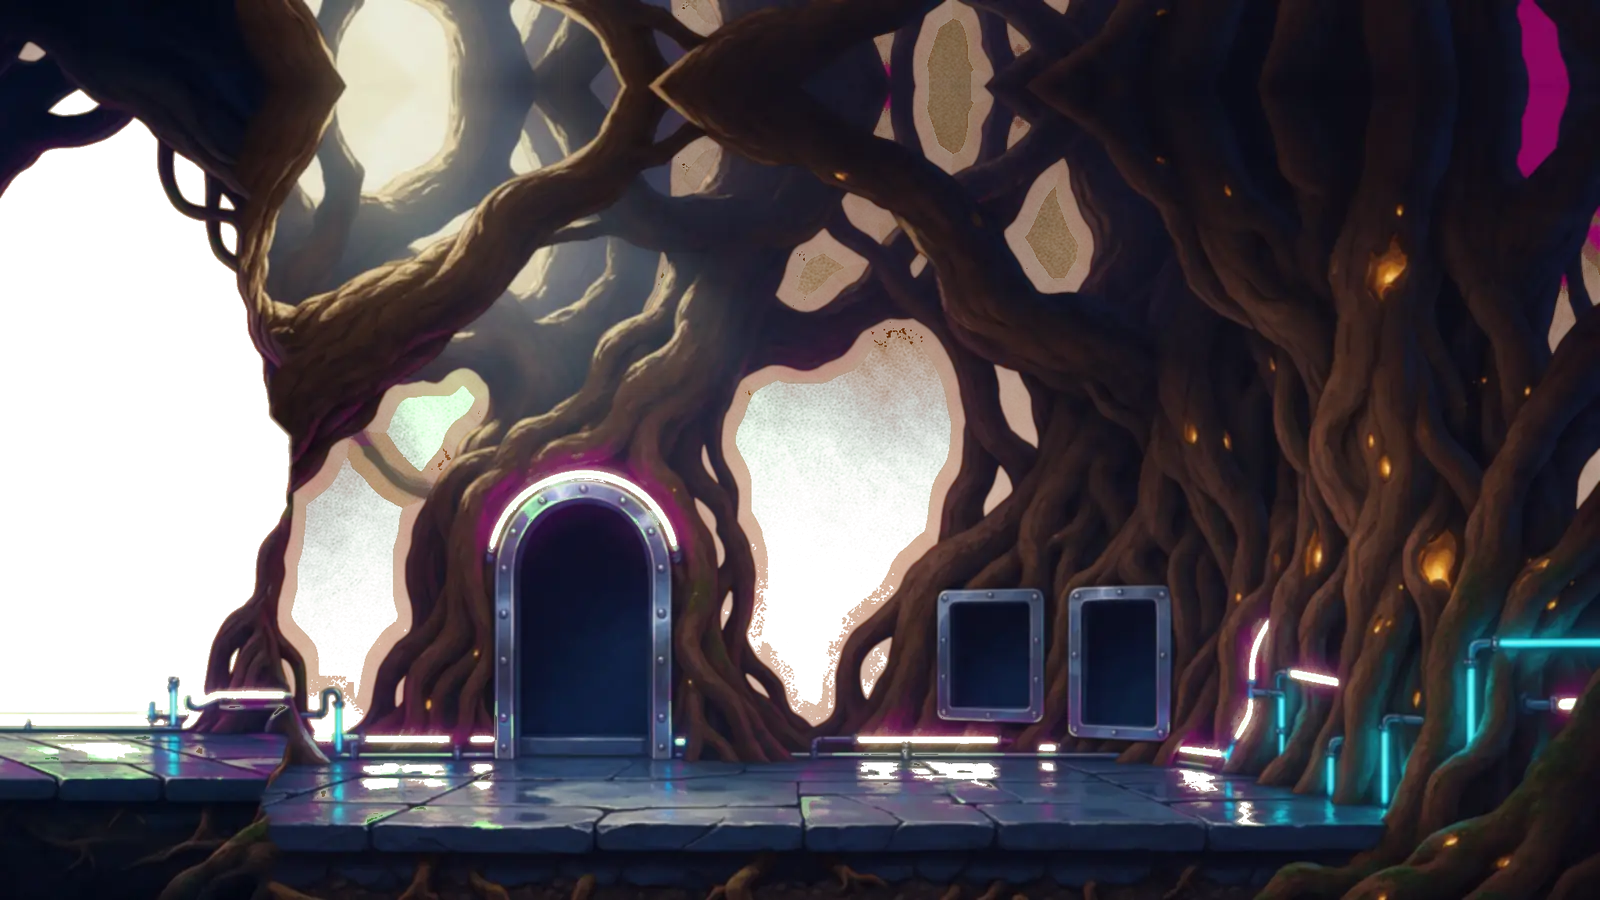
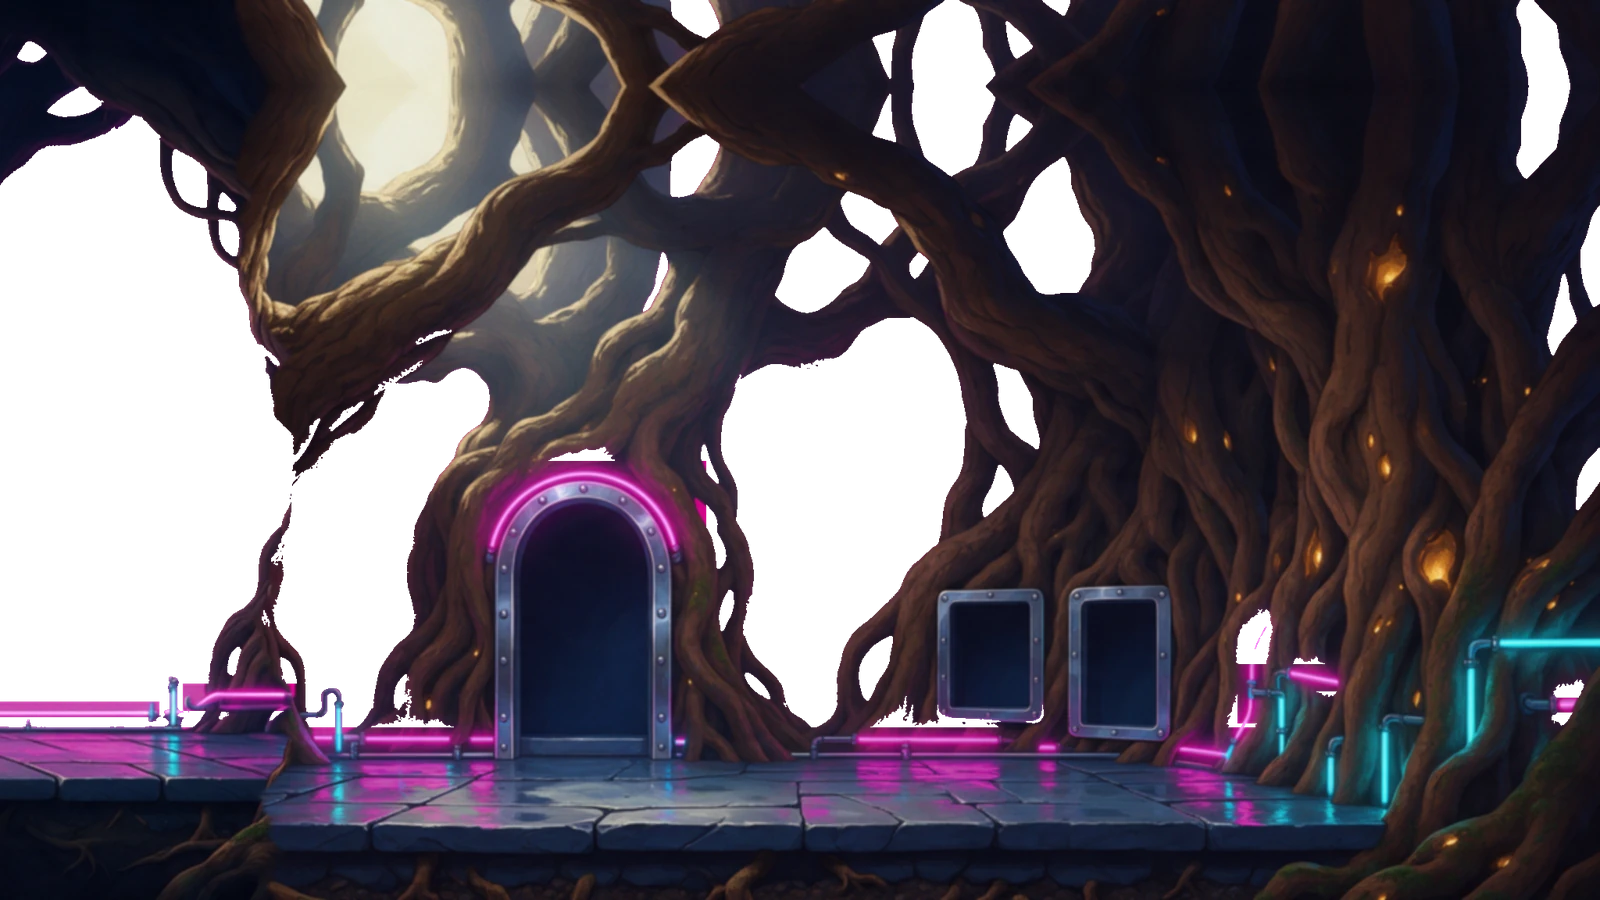
Level 0: clean the art (OP-163 follow-up)
Re-finished under the owner's standing art approval, with no new generation:

- The two screens' join is rebuilt from the other seam candidate of the same
  round, which keeps the scene continuous; the platforms are split again from
  that row so the walkway matches it.
- Each screen's overlay had a trunk the frame cut, which floated mid-view with
  a hard edge as it scrolled; both are cleared along their own outline
  (--clear-poly), and the overlays and middle-distance tiles ramp their alpha at
  the join (new overlay --edge-fade LEFT,RIGHT, recorded in the post record's
  tools; TODO-DOCS note for docs/ART-PIPELINE.md).
- The magenta specks on the platforms are keyed out with a wider key band.
- The cave's back scenery is keyed from derived raws whose painted backdrop
  (shaded like a glowing void) is set to the key colour above the floor, the
  neon painted in the same hue kept, so the green despilled remnants are gone.

Provenance and the sprite table are updated by the publisher.

Claude-Session: https://claude.ai/code/session_01BnX9BSkNEmKYCsZWbnRycG

diff --git a/tools/art/postprocess.py b/tools/art/postprocess.py
@@ -642,6 +642,36 @@ def clear_polygon(img: Image.Image, poly: str, scale: float = 1) -> tuple[Image.
     return rgba, int((out < a).sum())
 
 
+def fade_edges(img: Image.Image, spec: str, scale: float = 1) -> tuple[Image.Image, int]:
+    """``img`` (RGBA) with its alpha ramped (smoothstep) from clear at a side edge to full over ``spec``'s
+    LEFT,RIGHT pixels of the 1x final (scaled for a larger one); and how many pixels lost alpha. For a
+    middle-distance tile whose paint reaches the side edge the room fades it over (OP-163): the room's
+    linear fade leaves a cut edge faintly visible for most of its width, a ramp in the layer itself does not.
+
+    TODO-DOCS (OP-163): docs/ART-PIPELINE.md's overlay section: `--edge-fade LEFT,RIGHT` (final pixels,
+    recorded in the post record's tools)."""
+    try:
+        left, right = (int(v) for v in spec.split(","))
+    except ValueError:
+        raise ArtError(f"--edge-fade takes LEFT,RIGHT as two integers, not {spec!r}") from None
+    if left < 0 or right < 0 or left + right > img.width * scale:
+        raise ArtError(f"--edge-fade {spec!r} does not fit a final {img.width}px wide")
+    rgba = img.convert("RGBA")
+    x = np.arange(rgba.width, dtype=np.float32) + 0.5
+    ramp = np.ones_like(x)
+    if left:
+        t = np.clip(x / (left * scale), 0, 1)
+        ramp *= t * t * (3 - 2 * t)
+    if right:
+        t = np.clip((rgba.width - x) / (right * scale), 0, 1)
+        ramp *= t * t * (3 - 2 * t)
+    a = np.asarray(rgba.getchannel("A")).astype(np.float32)
+    out = np.round(a * ramp[None, :]).astype(np.uint8)
+    rgba = rgba.copy()
+    rgba.putalpha(Image.fromarray(out, "L"))
+    return rgba, int((out < a).sum())
+
+
 def key_screen(img: Image.Image, w: int, h: int, crop: str, shift_y: int, params: ChromaParams) -> tuple[Image.Image, dict]:
     """The screen of ``img`` an overlay finishes (its w:h window at ``crop``), keyed on its own backdrop.
 
@@ -682,6 +712,10 @@ def cmd_overlay(ctx: Ctx, a: argparse.Namespace) -> int:
             im, n = clear_polygon(im, poly, scale)
             if scale == 1:
                 tools.append(f"overlay: clear-poly {poly} {n} px")
+        if a.edge_fade:
+            im, n = fade_edges(im, a.edge_fade, scale)
+            if scale == 1:
+                tools.append(f"overlay: edge-fade {a.edge_fade} {n} px")
         return im
 
     one = cleared(apply_grade(resize_exact(rgba, W, H, a.crop, a.shift_y), pal, strength), 1)
@@ -1669,6 +1703,7 @@ def build_parser() -> argparse.ArgumentParser:
     sp.add_argument("--clear-haze", action="store_true", help="make bright key-coloured haze (keyed glow) transparent")
     sp.add_argument("--clear-signs", action="store_true", help="make the overlay transparent over closed signs' lettered boards")
     sp.add_argument("--clear-poly", action="append", default=None, help="x,y,x,y,...: a polygon in room pixels of the final where the overlay is made transparent (a prop the frame cut, which would float mid-view); repeatable")
+    sp.add_argument("--edge-fade", default=None, help="LEFT,RIGHT: final pixels over which the layer's alpha ramps from clear at its side edges (a middle-distance tile whose paint reaches the edge the room fades it over)")
     add_grade_flags(sp)
     add_common(sp)
     sp.set_defaults(fn=cmd_overlay)
